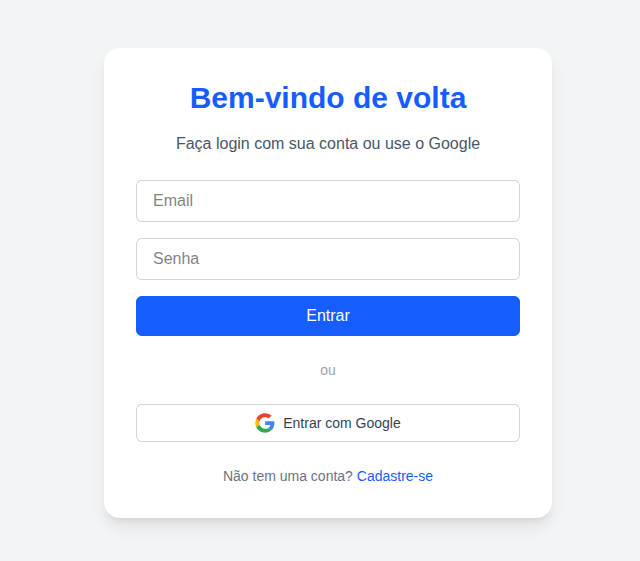
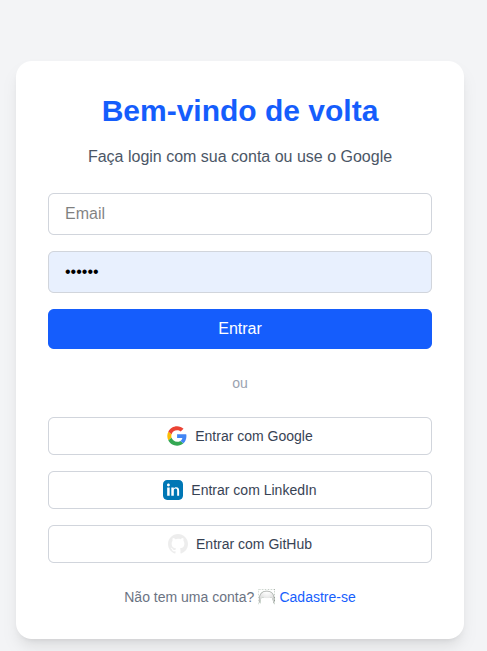
fix: Adiciona botões de linkedin e github

diff --git a/src/app/linkedin-success/page.tsx b/src/app/linkedin-success/page.tsx
@@ -1,26 +1,8 @@
 
 'use client';
 
-import { useEffect } from 'react';
-import { useRouter, useSearchParams } from 'next/navigation';
+import SuccessPage from '@/components/page';
 
 export default function LinkedinSuccessPage() {
-  const router = useRouter();
-  const searchParams = useSearchParams();
-
-  useEffect(() => {
-    const token = searchParams.get('token');
-    if (token) {
-      localStorage.setItem('token', token);
-      router.push('/dashboard'); 
-    } else {
-      router.push('/login');
-    }
-  }, [router, searchParams]);
-
-  return (
-    <div className="h-screen flex items-center justify-center text-lg text-gray-600">
-      Redirecionando...
-    </div>
-  );
+  return <SuccessPage />;
 }

diff --git a/src/app/github-success/page.tsx b/src/app/github-success/page.tsx
@@ -1,26 +1,8 @@
 
 'use client';
 
-import { useEffect } from 'react';
-import { useRouter, useSearchParams } from 'next/navigation';
+import SuccessPage from '@/components/page';
 
 export default function GitHubSuccessPage() {
-  const router = useRouter();
-  const searchParams = useSearchParams();
-
-  useEffect(() => {
-    const token = searchParams.get('token');
-    if (token) {
-      localStorage.setItem('token', token);
-      router.push('/dashboard'); 
-    } else {
-      router.push('/login');
-    }
-  }, [router, searchParams]);
-
-  return (
-    <div className="h-screen flex items-center justify-center text-lg text-gray-600">
-      Redirecionando...
-    </div>
-  );
+  return <SuccessPage />;
 }

diff --git a/src/app/google-success/page.tsx b/src/app/google-success/page.tsx
@@ -1,26 +1,8 @@
 
 'use client';
 
-import { useEffect } from 'react';
-import { useRouter, useSearchParams } from 'next/navigation';
+import SuccessPage from '@/components/page';
 
 export default function GoogleSuccessPage() {
-  const router = useRouter();
-  const searchParams = useSearchParams();
-
-  useEffect(() => {
-    const token = searchParams.get('token');
-    if (token) {
-      localStorage.setItem('token', token);
-      router.push('/dashboard'); 
-    } else {
-      router.push('/login');
-    }
-  }, [router, searchParams]);
-
-  return (
-    <div className="h-screen flex items-center justify-center text-lg text-gray-600">
-      Redirecionando...
-    </div>
-  );
+  return <SuccessPage />;
 }

diff --git a/src/components/page.tsx b/src/components/page.tsx
@@ -1,0 +1,24 @@
+
+import { useEffect } from 'react';
+import { useRouter, useSearchParams } from 'next/navigation';
+
+export default function SuccessPage() {
+  const router = useRouter();
+  const searchParams = useSearchParams();
+
+  useEffect(() => {
+    const token = searchParams.get('token');
+    if (token) {
+      localStorage.setItem('token', token);
+      router.push('/dashboard'); 
+    } else {
+      router.push('/login');
+    }
+  }, [router, searchParams]);
+
+  return (
+    <div className="h-screen flex items-center justify-center text-lg text-gray-600">
+      Redirecionando...
+    </div>
+  );
+}
